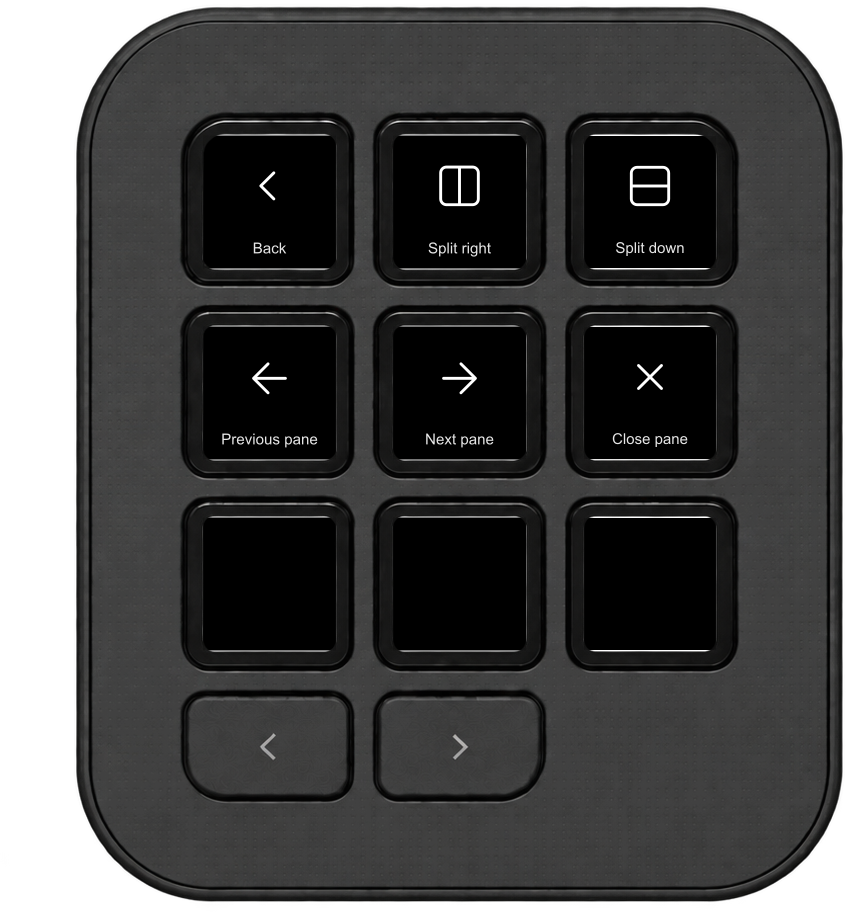
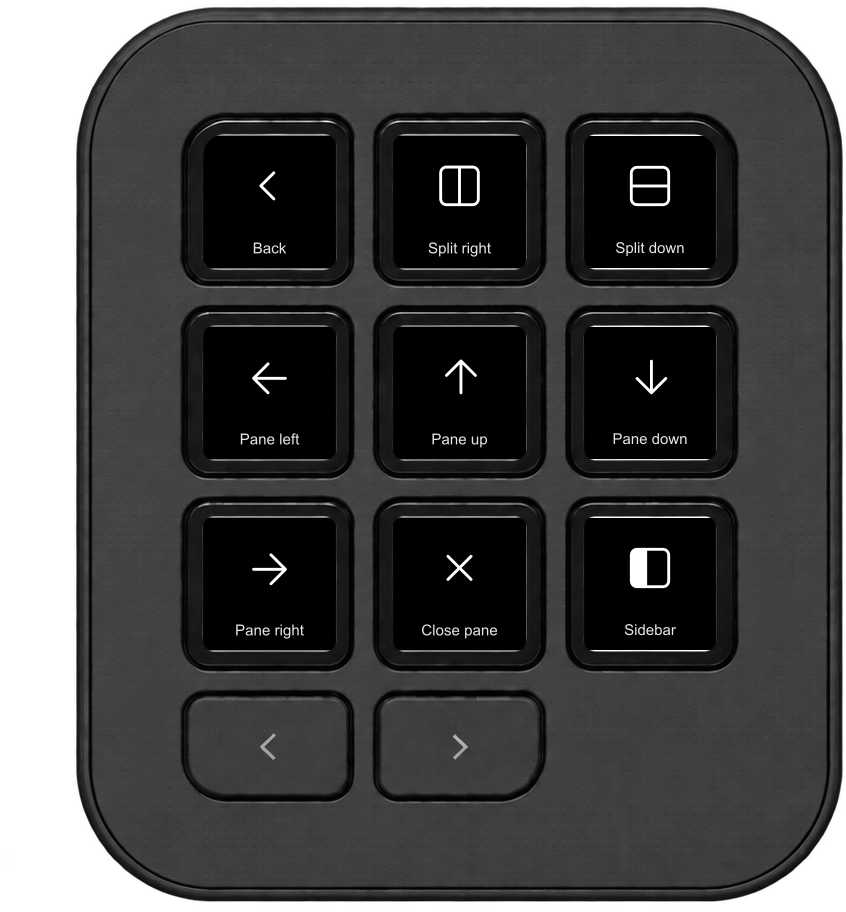
Label agents like the app and use its native navigation
Agents are labelled as in the app's agents list: tab (session) name, or the
terminal title from hc get for unnamed tabs. Layout moves between panes by
direction and toggles the sidebar; Next agent replaces Cycle tabs on the
main screen, with Previous agent as its own action.

diff --git a/docs/index.html b/docs/index.html
@@ -58,10 +58,10 @@
   <section>
     <h2>Agents at a glance</h2>
     <div class="pair">
-      <figure><img src="images/keypad.png" alt="Recent Agent keys with example agent names"><figcaption>Recent Agent keys</figcaption></figure>
+      <figure><img src="images/keypad.png" alt="Recent Agent keys labelled with their sessions"><figcaption>Recent Agent keys</figcaption></figure>
       <figure><img src="images/agents-folder.png" alt="Agents folder with Back, Shortcuts, Cycle panes and six agents"><figcaption>Agents folder</figcaption></figure>
     </div>
-    <p>Assign Recent Agent 1–9 directly, or open the Agents folder to browse live agents. A press focuses the agent; on Recent Agent keys and inside the Agents folder, a long press offers a confirmation before closing its pane. Agents in spaces on other machines carry a small R badge.</p>
+    <p>Assign Recent Agent 1–9 directly, or open the Agents folder to browse live agents. Keys carry the same names as the app's agents list: the tab's session name, or the terminal's title for unnamed tabs. A press focuses the agent; on Recent Agent keys and inside the Agents folder, a long press offers a confirmation before closing its pane. Agents in spaces on other machines carry a small R badge.</p>
     <p><b>Sub-agents:</b> an agent that started others shows an amber badge with their number. Hold it in the Agents folder to list them, each with its own state, plus the agent itself and a <b>Close</b> key for its pane. Press a sub-agent to focus it, or peek at it when it has no pane. On Recent Agent keys a hold still closes the pane.</p>
     <p>The app already connects to your machines, so local and remote agents share one list and are focused and closed the same way. No SSH or machine setup in the plugin.</p>
   </section>
@@ -69,10 +69,10 @@
   <section>
     <h2>Shortcuts</h2>
     <div class="pair">
-      <figure><img src="images/shortcuts-folder.png" alt="Shortcuts folder with Zoom pane, Cycle panes, Cycle tabs, Go to, Layout, Tabs and Spaces"><figcaption>Shortcuts</figcaption></figure>
-      <figure><img src="images/layout-folder.png" alt="Layout folder with split, pane navigation and Close pane"><figcaption>Layout</figcaption></figure>
+      <figure><img src="images/shortcuts-folder.png" alt="Shortcuts folder with Zoom pane, Cycle panes, Next agent, Go to, Layout, Tabs and Spaces"><figcaption>Shortcuts</figcaption></figure>
+      <figure><img src="images/layout-folder.png" alt="Layout folder with splits, pane left, up, down and right, Close pane and Sidebar"><figcaption>Layout</figcaption></figure>
     </div>
-    <p>Zoom a pane, cycle panes or tabs, open the app's Go to picker, split the layout, and move between spaces. Each shortcut is also an individual action. To close the focused pane, hold <b>Close pane</b>, then press <b>Close?</b> within three seconds.</p>
+    <p>Zoom a pane, cycle panes, jump to the next agent in the app's agents list, open the app's Go to picker, split the layout, move between panes by direction, toggle the sidebar, and move between tabs and spaces. Each shortcut is also an individual action. To close the focused pane, hold <b>Close pane</b>, then press <b>Close?</b> within three seconds.</p>
     <p>Every key runs one of the app's own commands over its control socket, the one <code>herdr-app do</code> uses. Nothing is typed into the window, so no Accessibility permission is needed.</p>
   </section>
 

diff --git a/src/HerdrApp.Core/TerminalTitles.cs b/src/HerdrApp.Core/TerminalTitles.cs
@@ -1,0 +1,81 @@
+using System.Text.Json;
+
+namespace HerdrApp;
+
+// The app's `ls` has no terminal titles, yet an unnamed tab is best told apart
+// by its agent's title ("Fix login"), as the app's own agents list does. Titles
+// come from `hc get <address> --json`, only for agents that need one, refreshed
+// in the background so polling never waits on a remote machine.
+public sealed class TerminalTitles
+{
+    private static readonly TimeSpan MaxAge = TimeSpan.FromSeconds(5);
+    private readonly Func<string, Task<string>> getTerminal;
+    private readonly object gate = new();
+    private Dictionary<string, string> titles = [];
+    private Task? refresh;
+    private DateTime refreshedAt = DateTime.MinValue;
+
+    public TerminalTitles() : this(address => HcCli.RunAsync("get", address, "--json")) { }
+    internal TerminalTitles(Func<string, Task<string>> getTerminal) => this.getTerminal = getTerminal;
+
+    public IReadOnlyList<Agent> Apply(IReadOnlyList<Agent> agents)
+    {
+        var wanted = agents.Where(NeedsTitle).Select(a => a.Key).ToList();
+        lock (gate)
+        {
+            if (wanted.Count > 0 && (refresh is null || refresh.IsCompleted) && DateTime.UtcNow - refreshedAt >= MaxAge)
+            {
+                refreshedAt = DateTime.UtcNow;
+                refresh = Task.Run(() => RefreshAsync(wanted));
+            }
+            return agents.Select(a => titles.TryGetValue(a.Key, out var title) ? a with { Title = title } : a).ToList();
+        }
+    }
+
+    internal async Task RefreshAsync(IReadOnlyList<string> addresses)
+    {
+        using var limit = new SemaphoreSlim(4);
+        var found = await Task.WhenAll(addresses.Select(async address =>
+        {
+            await limit.WaitAsync();
+            try
+            {
+                using var document = JsonDocument.Parse(await getTerminal(address));
+                return document.RootElement.TryGetProperty("title", out var t) && t.ValueKind == JsonValueKind.String
+                    ? (address, Clean(t.GetString())) : (address, null);
+            }
+            catch (Exception e)
+            {
+                Log.Info($"Could not read a terminal title: {e.Message}");
+                return (address, (string?)null);
+            }
+            finally { limit.Release(); }
+        }));
+        lock (gate) titles = found.Where(f => f.Item2 is not null).ToDictionary(f => f.address, f => f.Item2!);
+    }
+
+    // Unnamed tabs go by their number; a tab named after its program says
+    // nothing either. Those agents are told apart by their title.
+    public static bool InformativeTabName(Agent agent) =>
+        !string.IsNullOrWhiteSpace(agent.TabName) && !agent.TabName.All(char.IsAsciiDigit)
+        && Normalize(agent.TabName) != Normalize(agent.App);
+
+    private static bool NeedsTitle(Agent agent) => string.IsNullOrWhiteSpace(agent.Name) && !InformativeTabName(agent);
+
+    private static string Normalize(string? text) =>
+        new string((text ?? "").Where(char.IsAsciiLetterOrDigit).Select(char.ToLowerInvariant).ToArray());
+
+    // Titles carry a status glyph in front and often " | <project>" after.
+    internal static string? Clean(string? title)
+    {
+        if (string.IsNullOrWhiteSpace(title)) return null;
+        var start = 0;
+        while (start < title.Length && !char.IsLetterOrDigit(title[start]) && title[start] is not ('~' or '/')) start++;
+        var text = title[start..];
+        var separator = text.LastIndexOf(" | ", StringComparison.Ordinal);
+        if (separator > 0) text = text[..separator];
+        text = text.Trim();
+        // A path or user@host is where the shell is, not what the agent does.
+        return text.Length == 0 || text[0] is '~' or '/' || text.Contains('@') ? null : text;
+    }
+}

diff --git a/src/HerdrApp.Core/Navigation.cs b/src/HerdrApp.Core/Navigation.cs
@@ -8,11 +8,13 @@ public sealed class Navigation(HerdrAppClient client)
     public static readonly Shortcut[] All =
     [
         new("zoom", "Zoom pane", "Main"), new("cycle", "Cycle panes", "Main"),
+        new("agent-next", "Next agent", "Main"), new("agent-prev", "Previous agent", "Main"),
         new("cycle-tabs", "Cycle tabs", "Main"),
         new("go-to", "Go to", "Main"),
         new("split-right", "Split right", "Layout"), new("split-down", "Split down", "Layout"),
-        new("pane-prev", "Previous pane", "Layout"), new("pane-next", "Next pane", "Layout"),
-        new("close-pane", "Close pane", "Layout"),
+        new("pane-left", "Pane left", "Layout"), new("pane-up", "Pane up", "Layout"),
+        new("pane-down", "Pane down", "Layout"), new("pane-right", "Pane right", "Layout"),
+        new("close-pane", "Close pane", "Layout"), new("sidebar", "Sidebar", "Layout"),
         new("tab-new", "New tab", "Tabs"), new("tab-prev", "Previous tab", "Tabs"), new("tab-next", "Next tab", "Tabs"),
         new("space-new", "New space", "Spaces"), new("space-prev", "Previous space", "Spaces"), new("space-next", "Next space", "Spaces"),
     ];
@@ -36,6 +38,14 @@ public sealed class Navigation(HerdrAppClient client)
                 case "tab-prev": await client.DoAsync("tab.prev"); break;
                 case "space-next": await client.DoAsync("space.next"); break;
                 case "space-prev": await client.DoAsync("space.prev"); break;
+                // In the order of the app's agents list, which puts those that need you first.
+                case "agent-next": await client.DoAsync("agent.next"); break;
+                case "agent-prev": await client.DoAsync("agent.prev"); break;
+                // The app moves between panes by direction, as its keys do.
+                case "pane-left" or "pane-up" or "pane-down" or "pane-right":
+                    await client.DoAsync("pane.go", new { direction = id[5..] });
+                    break;
+                case "sidebar": await client.DoAsync("layout.toggle", new { id = "sidebar" }); break;
                 case "split-right" or "split-down":
                     await client.DoCreateAsync("pane.split", new { direction = id == "split-right" ? "right" : "down" });
                     break;
@@ -48,11 +58,12 @@ public sealed class Navigation(HerdrAppClient client)
                     await client.DoCreateAsync("space.new", new { machine = s.FocusedSpace?.Machine ?? "" });
                     break;
                 }
-                case "cycle" or "pane-next" or "pane-prev":
+                case "cycle":
                 {
+                    // The terminals' order in `ls`, which need not match the cards' layout.
                     var s = await client.GetSnapshotAsync();
                     var tab = s.FocusedTab;
-                    var target = tab is null ? null : Neighbor(tab.Panes.Select(p => p.PaneId).ToList(), s.FocusedPaneId, id == "pane-prev" ? -1 : 1);
+                    var target = tab is null ? null : Neighbor(tab.Panes.Select(p => p.PaneId).ToList(), s.FocusedPaneId, 1);
                     if (target is not null)
                     {
                         await client.FocusPaneAsync(target);

diff --git a/tests/HerdrApp.Core.Tests/NavigationTests.cs b/tests/HerdrApp.Core.Tests/NavigationTests.cs
@@ -9,15 +9,12 @@ public class NavigationTests
     public void NeighborWrapsOnlyWhenCurrentExists(string current, int direction, string? expected) =>
         Assert.Equal(expected, Navigation.Neighbor(["p1", "p2"], current, direction));
 
-    [Theory]
-    [InlineData("cycle", "p2")]
-    [InlineData("pane-next", "p2")]
-    [InlineData("pane-prev", "p2")]
-    public async Task PaneNavigationStaysInTheFocusedTab(string id, string expected)
+    [Fact]
+    public async Task CyclePanesStaysInTheFocusedTab()
     {
         using var app = new FakeApp { Ls = Fixtures.Ls, Status = Fixtures.Status };
-        await new Navigation(app.Client()).ExecuteAsync(id);
-        Assert.Equal(new[] { ("pane.focus", $$"""{"pane":"{{expected}}"}""") }, app.Commands);
+        await new Navigation(app.Client()).ExecuteAsync("cycle");
+        Assert.Equal(new[] { ("pane.focus", """{"pane":"p2"}""") }, app.Commands);
     }
 
     [Fact]
@@ -39,6 +36,13 @@ public class NavigationTests
     [InlineData("space-prev", "space.prev", "{}")]
     [InlineData("split-right", "pane.split", """{"direction":"right"}""")]
     [InlineData("split-down", "pane.split", """{"direction":"down"}""")]
+    [InlineData("pane-left", "pane.go", """{"direction":"left"}""")]
+    [InlineData("pane-up", "pane.go", """{"direction":"up"}""")]
+    [InlineData("pane-down", "pane.go", """{"direction":"down"}""")]
+    [InlineData("pane-right", "pane.go", """{"direction":"right"}""")]
+    [InlineData("sidebar", "layout.toggle", """{"id":"sidebar"}""")]
+    [InlineData("agent-next", "agent.next", "{}")]
+    [InlineData("agent-prev", "agent.prev", "{}")]
     public async Task ShortcutsRunTheAppsOwnCommands(string id, string command, string args)
     {
         using var app = new FakeApp { Ls = Fixtures.Ls, Status = Fixtures.Status };
@@ -67,10 +71,19 @@ public class NavigationTests
     }
 
     [Theory]
-    [InlineData("My agent", "api", "claude", "My agent")]
-    [InlineData(null, "api", "claude", "api")]
-    [InlineData(null, "", "claude", "claude")]
-    [InlineData(null, "", null, "Recent 3")]
-    public void AgentLabelPrefersNameThenSpaceThenApp(string? name, string space, string? app, string expected) =>
-        Assert.Equal(expected, FixedSlots.AgentLabel(new Agent { Name = name, SpaceName = space, App = app }, 3));
+    [InlineData("My agent", "PR 9750", "Fix login", "My agent")]
+    [InlineData(null, "PR 9750", "Fix login", "PR 9750")]
+    [InlineData(null, "2", "Fix login", "Fix login")]
+    [InlineData(null, "Claude Code", "Fix login", "Fix login")]
+    [InlineData(null, "2", null, "dd-source")]
+    public void AgentLabelPrefersNameThenTabThenTitleThenSpace(string? name, string tab, string? title, string expected) =>
+        Assert.Equal(expected, FixedSlots.AgentLabel(
+            new Agent { Name = name, TabName = tab, Title = title, SpaceName = "dd-source", App = "claude-code" }, 3));
+
+    [Fact]
+    public void AgentLabelFallsBackToTheAppAndThenTheSlot()
+    {
+        Assert.Equal("claude", FixedSlots.AgentLabel(new Agent { App = "claude" }, 3));
+        Assert.Equal("Recent 3", FixedSlots.AgentLabel(new Agent(), 3));
+    }
 }

diff --git a/tests/HerdrApp.Core.Tests/TerminalTitlesTests.cs b/tests/HerdrApp.Core.Tests/TerminalTitlesTests.cs
@@ -1,0 +1,61 @@
+namespace HerdrApp.Tests;
+
+public class TerminalTitlesTests
+{
+    [Theory]
+    [InlineData("✳ RP PR", "RP PR")]
+    [InlineData("test | dd-source", "test")]
+    [InlineData("First | second | project", "First | second")]
+    [InlineData("~/code/api", null)]
+    [InlineData("bits@workspace", null)]
+    [InlineData("  ", null)]
+    public void TitlesLoseTheirGlyphProjectAndShellLocations(string title, string? expected) =>
+        Assert.Equal(expected, TerminalTitles.Clean(title));
+
+    [Theory]
+    [InlineData("PR 9750 - inventory", "codex", true)]
+    [InlineData("1", "codex", false)]
+    [InlineData("Claude Code", "claude-code", false)]
+    [InlineData("Codex", "codex", false)]
+    [InlineData("", "codex", false)]
+    public void TabNamesThatOnlyNumberOrNameTheProgramTellNothing(string tab, string app, bool expected) =>
+        Assert.Equal(expected, TerminalTitles.InformativeTabName(new Agent { TabName = tab, App = app }));
+
+    [Fact]
+    public async Task OnlyAgentsWithoutAUsefulNameOrTabAreLookedUp()
+    {
+        var asked = new List<string>();
+        var titles = new TerminalTitles(address =>
+        {
+            lock (asked) asked.Add(address);
+            return Task.FromResult("""{"title":"✳ RP PR"}""");
+        });
+        Agent[] agents =
+        [
+            new() { TerminalId = "t1", TabName = "1", App = "claude-code" },
+            new() { TerminalId = "t2", TabName = "PR 9750", App = "codex" },
+            new() { TerminalId = "t3", TabName = "1", Name = "named", App = "pi" },
+        ];
+        await titles.RefreshAsync(["t1"]);
+        var result = titles.Apply(agents);
+        Assert.Equal(new[] { "RP PR", null, null }, result.Select(a => a.Title));
+        // Apply may also start its own refresh; it too asks only for t1.
+        await Task.Delay(50);
+        lock (asked) Assert.Equal(new[] { "t1" }, asked.Distinct());
+    }
+
+    [Fact]
+    public async Task SnapshotLabelsUseTheTitleOnceKnown()
+    {
+        using var app = new FakeApp { Ls = Fixtures.Ls, Status = Fixtures.Status };
+        app.Titles["a1"] = "✳ Fix login | api";
+        var client = app.Client();
+        var first = await client.GetSnapshotAsync();
+        Assert.Equal("api", FixedSlots.AgentLabel(first.Agents[0], 1));
+        // The first poll starts the lookup; a later one carries the title.
+        for (var i = 0; i < 100 && (await client.GetSnapshotAsync()).Agents[0].Title is null; i++) await Task.Delay(20);
+        var next = await client.GetSnapshotAsync();
+        Assert.Equal("Fix login", FixedSlots.AgentLabel(next.Agents[0], 1));
+        Assert.Equal("Fix login", next.Recent.Single(a => a.Key == "a1").Title);
+    }
+}

diff --git a/src/HerdrApp.Core/HerdrAppClient.cs b/src/HerdrApp.Core/HerdrAppClient.cs
@@ -28,13 +28,15 @@ public sealed class HerdrAppClient
 
     private readonly RecencyTracker recency = new();
     private readonly AppWindow window;
+    private readonly TerminalTitles titles;
     private readonly SemaphoreSlim agentFocusGate = new(1, 1);
     private string? pendingAgentKey;
 
-    public HerdrAppClient(string? socketPath = null, AppWindow? window = null)
+    public HerdrAppClient(string? socketPath = null, AppWindow? window = null, TerminalTitles? titles = null)
     {
         SocketPath = socketPath ?? DefaultSocketPath;
         this.window = window ?? new AppWindow();
+        this.titles = titles ?? new TerminalTitles();
     }
 
     public string SocketPath { get; }
@@ -92,7 +94,10 @@ public sealed class HerdrAppClient
         await Task.WhenAll(lsTask, statusTask);
         var ls = (await lsTask).Deserialize<RawLs>(Json) ?? throw new HerdrAppException("herdr-app ls: malformed response");
         var status = (await statusTask).Deserialize<RawStatus>(Json) ?? throw new HerdrAppException("herdr-app status: malformed response");
-        return Build(ls, status, recency);
+        var snapshot = Build(ls, status, recency);
+        var titled = titles.Apply(snapshot.Agents);
+        var byKey = titled.ToDictionary(a => a.Key);
+        return snapshot with { Agents = titled, Recent = snapshot.Recent.Select(a => byKey[a.Key]).ToList() };
     }
 
     internal static Snapshot Build(RawLs ls, RawStatus status, RecencyTracker? recency = null)
@@ -119,6 +124,7 @@ public sealed class HerdrAppClient
                         SpaceId = rawSpace.Id,
                         SpaceName = rawSpace.Name ?? "",
                         TabId = rawTab.Id,
+                        TabName = rawTab.Name ?? "",
                         Machine = machine,
                         Name = terminal.Name,
                         App = terminal.App,

diff --git a/probes/HerdrAppProbe/Program.cs b/probes/HerdrAppProbe/Program.cs
@@ -8,6 +8,18 @@ Console.WriteLine($"Spaces: {snapshot.Spaces.Count}; tabs: {snapshot.Spaces.Sum(
 foreach (var group in snapshot.Agents.GroupBy(a => a.Machine ?? "Local"))
     Console.WriteLine($"{group.Key}: {group.Count()}");
 Console.WriteLine("States: " + string.Join(", ", snapshot.Agents.GroupBy(a => a.AgentStatus).Select(g => $"{g.Key}={g.Count()}")));
+if (args is ["--labels"])
+{
+    // Titles arrive in the background; poll until the lookup has answered.
+    for (var i = 0; i < 30; i++)
+    {
+        snapshot = await client.GetSnapshotAsync();
+        if (snapshot.Agents.All(a => a.Title is not null || !string.IsNullOrWhiteSpace(a.Name) || TerminalTitles.InformativeTabName(a))) break;
+        await Task.Delay(200);
+    }
+    foreach (var (agent, index) in snapshot.Recent.Select((a, i) => (a, i + 1)))
+        Console.WriteLine($"{index}. {FixedSlots.AgentLabel(agent, index)}  ({agent.Key})");
+}
 if (args is ["--sub-agents"])
 {
     var tree = new SubAgentTree();

diff --git a/src/HerdrApp.Core/FixedSlots.cs b/src/HerdrApp.Core/FixedSlots.cs
@@ -10,9 +10,11 @@ public static class FixedSlots
     public static Space? Space(Snapshot snapshot, int slot) =>
         slot is >= 1 and <= Count ? snapshot.Spaces.FirstOrDefault(s => s.Index == slot) : null;
 
-    // The app reports no terminal title, so an unnamed agent goes by its space.
+    // As the app's agents list: the tab's name tells agents apart, unless the
+    // tab is unnamed or named after its program; then the terminal's title does.
     public static string AgentLabel(Agent agent, int slot) =>
-        FirstNonBlank(agent.Name, agent.SpaceName, agent.App) ?? $"Recent {slot}";
+        FirstNonBlank(agent.Name, TerminalTitles.InformativeTabName(agent) ? agent.TabName : null, agent.Title, agent.SpaceName, agent.App)
+        ?? $"Recent {slot}";
 
     public static string SpaceLabel(Space space, int slot) =>
         FirstNonBlank(space.Name) ?? $"Space {slot}";

diff --git a/src/HerdrAppKeypad/ShortcutCommand.cs b/src/HerdrAppKeypad/ShortcutCommand.cs
@@ -44,8 +44,13 @@ internal static class KeyFaces
         "cycle-tabs" => "multiple-windows",
         "split-right" => "split-horizontal",
         "split-down" => "split-vertical",
-        "pane-prev" => "arrow-left",
-        "pane-next" => "arrow-right",
+        "pane-left" => "arrow-left",
+        "pane-up" => "arrow-up",
+        "pane-down" => "arrow-down",
+        "pane-right" => "arrow-right",
+        "sidebar" => "layout-sidebar-left",
+        "agent-next" => "arrow-circle-down",
+        "agent-prev" => "arrow-circle-up",
         "close-pane" => "close",
         "tab-new" => "add",
         "tab-prev" => "chevron-left",

diff --git a/tests/HerdrApp.Core.Tests/TestSupport.cs b/tests/HerdrApp.Core.Tests/TestSupport.cs
@@ -60,7 +60,11 @@ sealed class FakeApp : IDisposable
 
     public IReadOnlyList<string> Names => Commands.Select(c => c.Name).ToList();
 
-    public HerdrAppClient Client() => new(SocketPath, new NoWindow());
+    // Titles are answered from Titles instead of running hc.
+    public Dictionary<string, string> Titles { get; } = [];
+
+    public HerdrAppClient Client() => new(SocketPath, new NoWindow(), new TerminalTitles(address =>
+        Task.FromResult(Titles.TryGetValue(address, out var title) ? $$"""{"title":{{System.Text.Json.JsonSerializer.Serialize(title)}}}""" : "{}")));
 
     private async Task AcceptAsync()
     {

diff --git a/src/HerdrApp.Core/Snapshot.cs b/src/HerdrApp.Core/Snapshot.cs
@@ -56,6 +56,10 @@ public sealed record Agent
     public string SpaceId { get; init; } = "";
     public string SpaceName { get; init; } = "";
     public string TabId { get; init; } = "";
+    // Its tab's name, or the tab's position ("2") when nobody named it.
+    public string TabName { get; init; } = "";
+    // The terminal's title, read only when neither name nor tab tells it apart.
+    public string? Title { get; init; }
     public string? Machine { get; init; }
     public string? Name { get; init; }
     public string? App { get; init; }

diff --git a/src/HerdrAppKeypad/ShortcutMenu.cs b/src/HerdrAppKeypad/ShortcutMenu.cs
@@ -28,7 +28,7 @@ internal sealed class ShortcutMenu
             yield return this.backToAgents is not null ? "back" : "blank";
             yield return "action:zoom";
             yield return "action:cycle";
-            yield return "action:cycle-tabs";
+            yield return "action:agent-next";
             yield return "action:go-to";
             foreach (var group in new[] { "Layout", "Tabs", "Spaces" }) yield return "group:" + group;
         }
